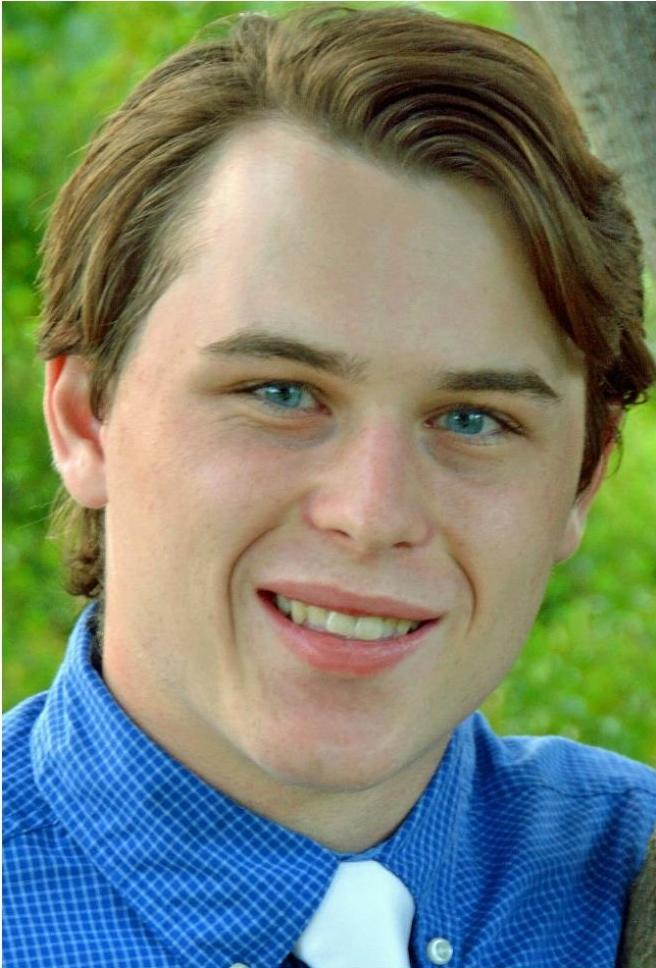
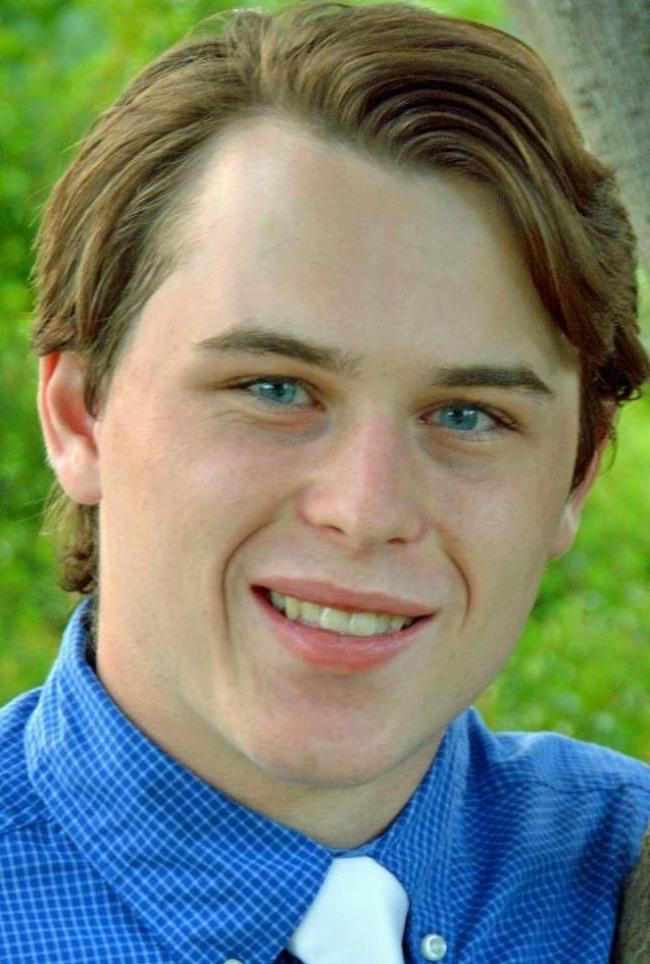
minor stylistic changes

diff --git a/src/app/education/main-education/main-education.component.html b/src/app/education/main-education/main-education.component.html
@@ -1,85 +1,103 @@
 <h1 id="university">University</h1>
-<p>
-  Blah blah blah blah blah blah blah blah blah blah blah blah blah 
-  blah blah blah blah blah blah blah blah blah blah blah blah blah
-  blah blah blah blah blah blah blah blah blah blah blah blah blah
-  blah blah blah blah blah blah blah blah blah blah blah blah blah
-  blah blah blah blah blah blah blah blah blah blah blah blah blah
-  blah blah blah blah blah blah blah blah blah blah blah blah blah
-  blah blah blah blah blah blah blah blah blah blah blah blah blah
-  blah blah blah blah blah blah blah blah blah blah blah blah blah
-  blah blah blah blah blah blah blah blah blah blah blah blah blah
-  blah blah blah blah blah blah blah blah blah blah blah blah blah
-  blah blah blah blah blah blah blah blah blah blah blah blah blah
-  blah blah blah blah blah blah blah blah blah blah blah blah blah
-  blah blah blah blah blah blah blah blah blah blah blah blah blah.
-  Blah blah blah blah blah blah blah blah blah blah blah blah blah 
-  blah blah blah blah blah blah blah blah blah blah blah blah blah
-  blah blah blah blah blah blah blah blah blah blah blah blah blah
-  blah blah blah blah blah blah blah blah blah blah blah blah blah
-  blah blah blah blah blah blah blah blah blah blah blah blah blah
-  blah blah blah blah blah blah blah blah blah blah blah blah blah
-  blah blah blah blah blah blah blah blah blah blah blah blah blah
-  blah blah blah blah blah blah blah blah blah blah blah blah blah
-  blah blah blah blah blah blah blah blah blah blah blah blah blah
-  blah blah blah blah blah blah blah blah blah blah blah blah blah
-  blah blah blah blah blah blah blah blah blah blah blah blah blah
-  blah blah blah blah blah blah blah blah blah blah blah blah blah
-  blah blah blah blah blah blah blah blah blah blah blah blah blah.
-  Blah blah blah blah blah blah blah blah blah blah blah blah blah 
-  blah blah blah blah blah blah blah blah blah blah blah blah blah
-  blah blah blah blah blah blah blah blah blah blah blah blah blah
-  blah blah blah blah blah blah blah blah blah blah blah blah blah
-  blah blah blah blah blah blah blah blah blah blah blah blah blah
-  blah blah blah blah blah blah blah blah blah blah blah blah blah
-  blah blah blah blah blah blah blah blah blah blah blah blah blah
-  blah blah blah blah blah blah blah blah blah blah blah blah blah
-  blah blah blah blah blah blah blah blah blah blah blah blah blah
-  blah blah blah blah blah blah blah blah blah blah blah blah blah
-  blah blah blah blah blah blah blah blah blah blah blah blah blah
-  blah blah blah blah blah blah blah blah blah blah blah blah blah
-  blah blah blah blah blah blah blah blah blah blah blah blah blah.
+<p class="indent">
+  <b>Name: </b> University of Toronto <br>
+  <b>Major: </b> Engineering Science, Machine Intelligence <br>
+  <b>Date: </b> 2017 - Present <br>
+  <b>Class: </b> 2021 + PEY <br>
+  <b>GPA: </b> 4.0
 </p>
 
-<h1 id="highschool">Highschool</h1>
+<h3><b>Why Did I Choose UofT?</b></h3>
 <p>
-  Blah blah blah blah blah blah blah blah blah blah blah blah blah 
-  blah blah blah blah blah blah blah blah blah blah blah blah blah
-  blah blah blah blah blah blah blah blah blah blah blah blah blah
-  blah blah blah blah blah blah blah blah blah blah blah blah blah
-  blah blah blah blah blah blah blah blah blah blah blah blah blah
-  blah blah blah blah blah blah blah blah blah blah blah blah blah
-  blah blah blah blah blah blah blah blah blah blah blah blah blah
-  blah blah blah blah blah blah blah blah blah blah blah blah blah
-  blah blah blah blah blah blah blah blah blah blah blah blah blah
-  blah blah blah blah blah blah blah blah blah blah blah blah blah
-  blah blah blah blah blah blah blah blah blah blah blah blah blah
-  blah blah blah blah blah blah blah blah blah blah blah blah blah
-  blah blah blah blah blah blah blah blah blah blah blah blah blah.
-  Blah blah blah blah blah blah blah blah blah blah blah blah blah 
-  blah blah blah blah blah blah blah blah blah blah blah blah blah
-  blah blah blah blah blah blah blah blah blah blah blah blah blah
-  blah blah blah blah blah blah blah blah blah blah blah blah blah
-  blah blah blah blah blah blah blah blah blah blah blah blah blah
-  blah blah blah blah blah blah blah blah blah blah blah blah blah
-  blah blah blah blah blah blah blah blah blah blah blah blah blah
-  blah blah blah blah blah blah blah blah blah blah blah blah blah
-  blah blah blah blah blah blah blah blah blah blah blah blah blah
-  blah blah blah blah blah blah blah blah blah blah blah blah blah
-  blah blah blah blah blah blah blah blah blah blah blah blah blah
-  blah blah blah blah blah blah blah blah blah blah blah blah blah
-  blah blah blah blah blah blah blah blah blah blah blah blah blah.
-  Blah blah blah blah blah blah blah blah blah blah blah blah blah 
-  blah blah blah blah blah blah blah blah blah blah blah blah blah
-  blah blah blah blah blah blah blah blah blah blah blah blah blah
-  blah blah blah blah blah blah blah blah blah blah blah blah blah
-  blah blah blah blah blah blah blah blah blah blah blah blah blah
-  blah blah blah blah blah blah blah blah blah blah blah blah blah
-  blah blah blah blah blah blah blah blah blah blah blah blah blah
-  blah blah blah blah blah blah blah blah blah blah blah blah blah
-  blah blah blah blah blah blah blah blah blah blah blah blah blah
-  blah blah blah blah blah blah blah blah blah blah blah blah blah
-  blah blah blah blah blah blah blah blah blah blah blah blah blah
-  blah blah blah blah blah blah blah blah blah blah blah blah blah
-  blah blah blah blah blah blah blah blah blah blah blah blah blah.
+  words
 </p>
+
+<h3><b>What Does My Major Mean?</b></h3>
+<p>
+  words
+</p>
+  
+<h3><b>Why Did I Choose Engineering Science?</b></h3>
+<p>
+  words
+</p>
+
+<h3><b>Why Did I Choose Machine Learning?</b></h3>
+<p>
+  words
+</p>
+  
+<h3><b>What is PEY?</b></h3>
+<p>
+  words
+</p>
+  
+<h3><b>Co-Curricular Activities</b></h3>
+
+<div class="indent">
+
+  <h4><b>F!rosh Leader</b></h4>
+  <p>
+    words
+  </p>
+    
+  <h4><b>Putnam</b></h4>
+  <p>
+    words
+  </p>
+    
+  <h4><b>Executive of Magic Club</b></h4>
+  <p>
+    words
+  </p>
+    
+  </div>
+
+<br>
+<h1 id="highschool">Highschool</h1>
+<p class="indent">
+  <b>Name: </b> St. Thomas Aquinas Highschool <br>
+  <b>Date: </b> 2013 - 2017 <br>
+  <b>GPA: </b> 4.46
+</p>
+
+<h3><b>About St. Thomas Aquinas</b></h3>
+<p>
+  words
+</p>
+  
+<h3><b>GPA Weighting</b></h3>
+<p>
+  words
+</p>
+  
+<h3><b>Extracurricular Activities</b></h3>
+  
+<div class="indent">
+
+  <h4><b>Volunteer</b></h4>
+  <p>
+    words
+  </p>
+    
+  <h4><b>Sports</b></h4>
+  <p>
+    words
+  </p>
+    
+  <h4><b>Clubs</b></h4>
+  <p>
+    words
+  </p>
+    
+  <h4><b>Peer Tutoring</b></h4>
+  <p>
+    words
+  </p>
+    
+  <h4><b>Building a Tesla Coil</b></h4>
+  <p>
+    words
+  </p>
+    
+</div>

diff --git a/src/app/work-experience/main-work-experience/main-work-experience.component.html b/src/app/work-experience/main-work-experience/main-work-experience.component.html
@@ -10,8 +10,11 @@
   (<a href="https://www.ga4gh.org/">GA4GH</a>). The project was titled 
   "<a href="https://summerofcode.withgoogle.com/projects/#6402356590149632">Global Filesystem and Search Engine for Genomics Data</a>",
   whose goal was to create a generic API on top of existing object storage systems so workflow systems can access data in a single, 
-  standard way regardless of where it's stored.
+  standard way regardless of where it's stored. Documentation and technical details of the project can be found at this
+  <a href="https://gist.github.com/ekeilty17/bef6562cbb65e71df844f32013454d91">gist file</a>.
+  The API implementation can be found on my github in the repository titled <a href="https://github.com/ekeilty17/GA4GH-DOS-Server">GA4GH-DOS-Server</a>.
   <br><br>
+  
   GA4GH have developed the Data Object Service (DOS), which is an emerging API standard for specifying location of data across
   different cloud environments. I created is an implementation of a DOS Server, which hosts and allows the discovery of data
   objects. By completing this project I learned how to use the Springboot framework to build an API, how to connect a MYSQL
@@ -25,26 +28,9 @@
 
 <h1 id="unh">UNH</h1>
 <p>
-  Blah blah blah blah blah blah blah blah blah blah blah blah blah blah blah blah blah blah blah blah blah blah blah blah blah
-  blah blah blah blah blah blah blah blah blah blah blah blah blah blah blah blah blah blah blah blah blah blah blah blah
-  blah blah blah blah blah blah blah blah blah blah blah blah blah blah blah blah blah blah blah blah blah blah blah blah
-  blah blah blah blah blah blah blah blah blah blah blah blah blah blah blah blah blah blah blah blah blah blah blah blah
-  blah blah blah blah blah blah blah blah blah blah blah blah blah blah blah blah blah blah blah blah blah blah blah blah
-  blah blah blah blah blah blah blah blah blah blah blah blah blah blah blah blah blah blah blah blah blah blah blah blah
-  blah blah blah blah blah blah blah blah blah blah blah blah blah blah blah blah blah blah blah blah blah blah blah blah.
-  Blah blah blah blah blah blah blah blah blah blah blah blah blah blah blah blah blah blah blah blah blah blah blah blah
-  blah blah blah blah blah blah blah blah blah blah blah blah blah blah blah blah blah blah blah blah blah blah blah blah
-  blah blah blah blah blah blah blah blah blah blah blah blah blah blah blah blah blah blah blah blah blah blah blah blah
-  blah blah blah blah blah blah blah blah blah blah blah blah blah blah blah blah blah blah blah blah blah blah blah blah
-  blah blah blah blah blah blah blah blah blah blah blah blah blah blah blah blah blah blah blah blah blah blah blah blah
-  blah blah blah blah blah blah blah blah blah blah blah blah blah blah blah blah blah blah blah blah blah blah blah blah
-  blah blah blah blah blah blah blah blah blah blah blah blah blah blah blah blah blah blah blah blah blah blah blah blah
-  blah. Blah blah blah blah blah blah blah blah blah blah blah blah blah blah blah blah blah blah blah blah blah blah blah
-  blah blah blah blah blah blah blah blah blah blah blah blah blah blah blah blah blah blah blah blah blah blah blah blah
-  blah blah blah blah blah blah blah blah blah blah blah blah blah blah blah blah blah blah blah blah blah blah blah blah
-  blah blah blah blah blah blah blah blah blah blah blah blah blah blah blah blah blah blah blah blah blah blah blah blah
-  blah blah blah blah blah blah blah blah blah blah blah blah blah blah blah blah blah blah blah blah blah blah blah blah
-  blah blah blah blah blah blah blah blah blah blah blah blah blah blah blah blah blah blah blah blah blah blah blah blah
-  blah blah blah blah blah blah blah blah blah blah blah blah blah blah blah blah blah blah blah blah blah blah blah blah
-  blah blah.
+  <b>Title: </b> Junior Computer Programmer <br>
+  <b>Date: </b> June 2016 - August 2016, June 2015 - August 2015 <br>
+
+  
+
 </p>

diff --git a/src/app/resume/main-resume/main-resume.component.html b/src/app/resume/main-resume/main-resume.component.html
@@ -58,13 +58,13 @@
           <div class="subtext">Java Backend Developer Intern</div>
           <ul>
             <li>
-              Recieved the internship through the <a href="https://summerofcode.withgoogle.com/"> Google Summer of Code (GSoC)</a>
-              program. As per my accepted purposal of the internship, I implemented the <a href="https://github.com/ga4gh/data-object-service-schemas">Data
+              Received the internship through the <a href="https://summerofcode.withgoogle.com/"> Google Summer of Code (GSoC)</a>
+              program. As per my accepted proposal of the internship, I implemented the <a href="https://github.com/ga4gh/data-object-service-schemas">Data
               Object Service (DOS)</a> API created by <a href="https://www.ga4gh.org/">Global Alliance for Genomics and Health (GA4GH)</a>.
             </li> <br>
             <li>
               The API was created using the <a href="https://spring.io/projects/spring-boot">Springboot</a> framework integrated with
-              a MYSQL database in order to store the DOS Objects, packaged with Maven, and authenitcated with Keycloak.
+              a MYSQL database in order to store the DOS Objects, packaged with Maven, and authenticated with Keycloak.
             </li> <br>
             <li>
               Learned how to use and incorporate many other development tools such as Maven, Gradle, Elasticsearch & Kibana, Keycloak, Docker,
@@ -86,8 +86,7 @@
             </li> <br>
             <li>
               Developed workflows that allowed the operators to layout way points and assign new way points based on baring, latitude,
-              and longitude. The coordinates of entities drawn were then exported in various formats and coordinate systems
-              including Latitude/Longitude, UTM, UTM relative to the first point drawn, and HYPACK.
+              and longitude.
             </li>
           </ul>
         </div>

diff --git a/src/app/accomplishments/main-accomplishments/main-accomplishments.component.html b/src/app/accomplishments/main-accomplishments/main-accomplishments.component.html
@@ -1,16 +1,41 @@
-<h1>Ranked #1 in Engineering Science at UofT</h1>
+<h1>University (2017 - present)</h1>
+
+<h2>Won 1st Place in Utrahacks Hardware Hackaton</h2>
 <p>
-  Blah blah blah blah blah blah blah blah blah blah blah blah blah 
-  blah blah blah blah blah blah blah blah blah blah blah blah blah
-  blah blah blah blah blah blah blah blah blah blah blah blah blah
-  blah blah blah blah blah blah blah blah blah blah blah blah blah
-  blah blah blah blah blah blah blah blah blah blah blah blah blah
-  blah blah blah blah blah blah blah blah blah blah blah blah blah
-  blah blah blah blah blah blah blah blah blah blah blah blah blah
-  blah blah blah blah blah blah blah blah blah blah blah blah blah
-  blah blah blah blah blah blah blah blah blah blah blah blah blah
-  blah blah blah blah blah blah blah blah blah blah blah blah blah
-  blah blah blah blah blah blah blah blah blah blah blah blah blah
-  blah blah blah blah blah blah blah blah blah blah blah blah blah
-  blah blah blah blah blah blah blah blah blah blah blah blah blah.
+  
 </p>
+
+<h2>Ranked #1 in Engineering Science at UofT</h2>
+<p>
+  
+</p>
+
+
+<h1>Highschool (2014 - 2017)</h1>
+
+<h2>Valedictorian of Highschool</h2>
+<p>
+  
+</p>
+
+<h2>Successfully Built a Tesla Coil</h2>
+<p>
+
+</p>
+
+<h2>Most points on Varsity Hockey Team (held for 2 years)</h2>
+<p>
+
+</p>
+
+<h2>Lowest Average on Varisty Golf Team (held for 3 years)</h2>
+<p>
+
+</p>
+
+<h2>Moody's Megamath Competition</h2>
+<p>
+
+</p>
+
+<h2> Living Legacy Writing Competition</h2>

diff --git a/src/app/home/home.component.html b/src/app/home/home.component.html
@@ -1,10 +1,10 @@
 <body class="light-grey text-black boarder">
   <div class="grid-container margin-top">
     
-    <div class="picture grey">
-      <img src="assets/HeadShot.jpg" width="230" height="300">
+    <div class="picture">
+      <img src="assets/HeadShot.jpg" width="220" height="300">
     </div>
-    <div class="header grey">
+    <div class="header">
       <app-header-home></app-header-home>
     </div>
 

diff --git a/src/app/education/main-education/main-education.component.css b/src/app/education/main-education/main-education.component.css
@@ -5,3 +5,7 @@ h1 {
 p {
     font-size: 18px;
 }
+
+div.indent, p.indent {
+    margin-left: 30px;
+}
